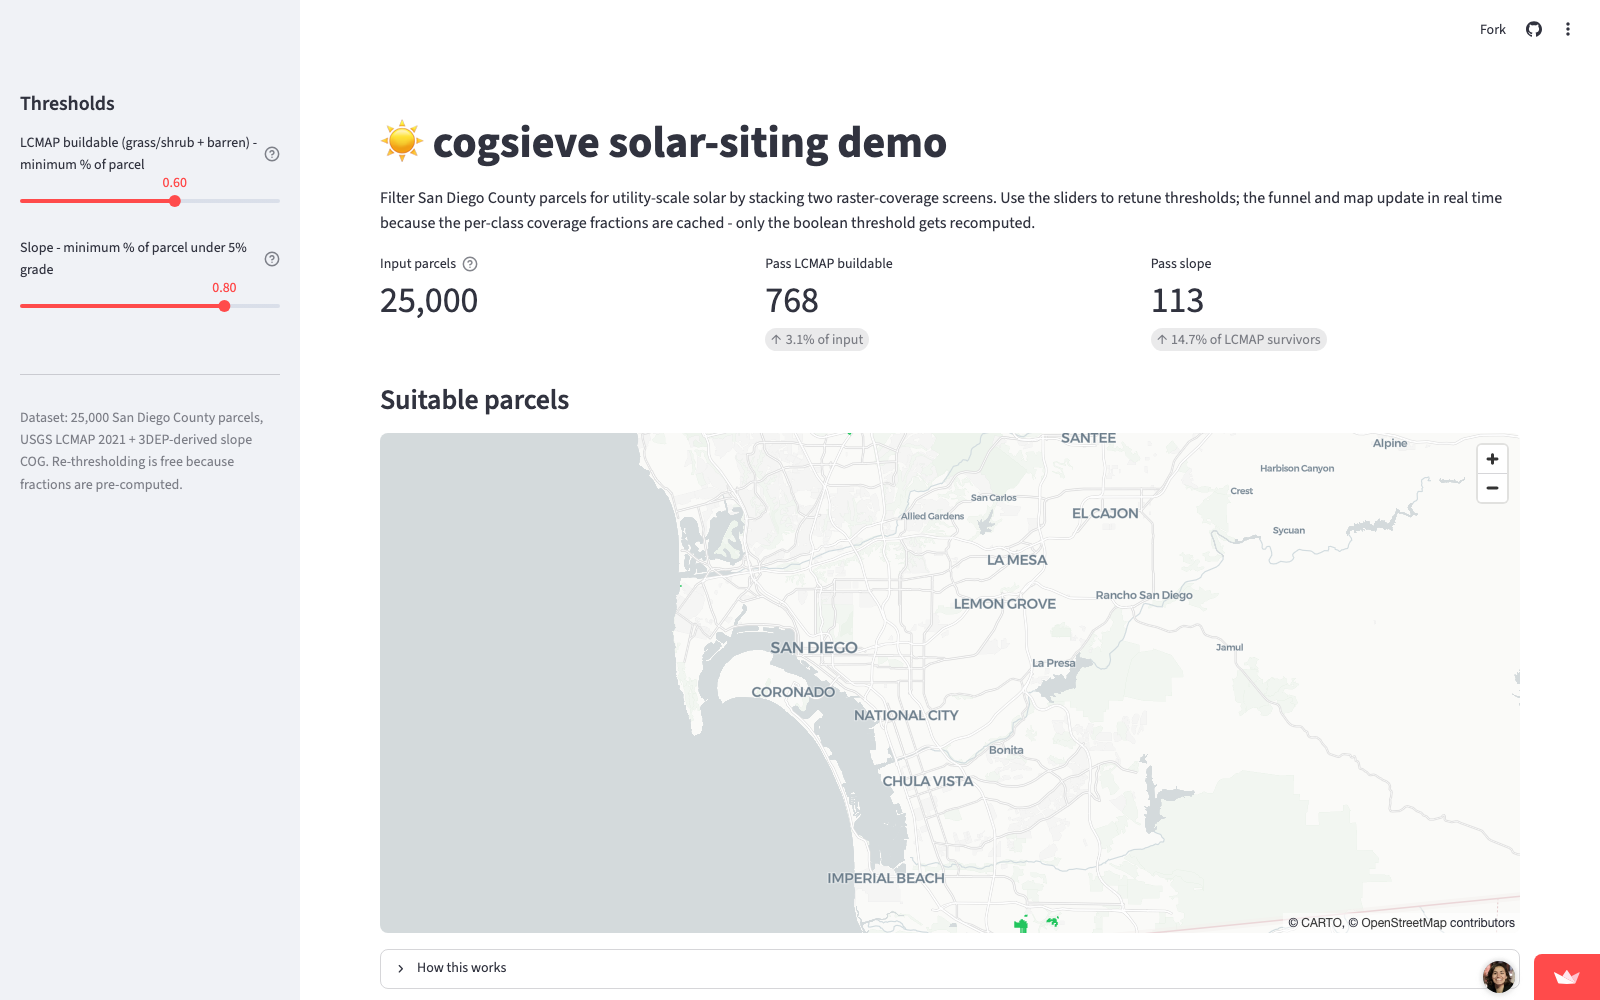
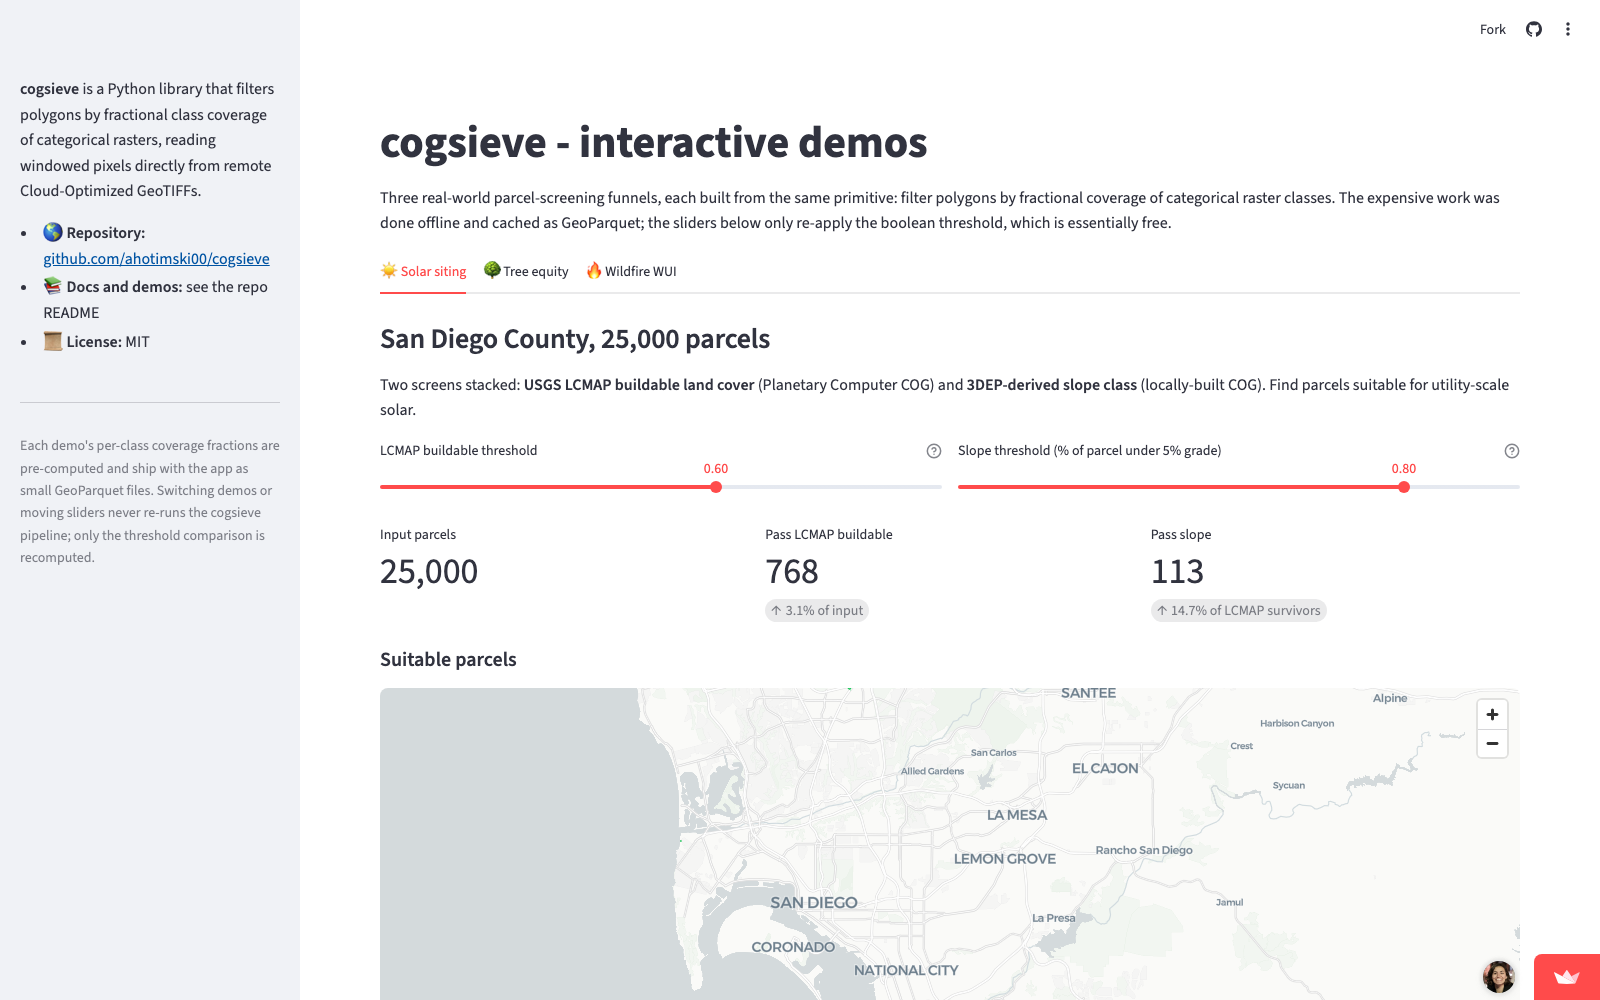
Tools/cogsieve: update screenshot + description for multi-tab demo
The Streamlit app now hosts three tabs (solar siting, tree equity,
wildfire WUI), each with threshold sliders that re-filter cached
coverage fractions. Updated the live-demo link description and
re-captured the screenshot to reflect the new UI.

diff --git a/_pages/tools.md b/_pages/tools.md
@@ -16,7 +16,7 @@ Open-source libraries and interactive demos that stand on their own outside the 
 
 **A Python library that filters polygons by fractional class coverage of categorical rasters, reading windowed pixels directly from remote Cloud-Optimized GeoTIFFs instead of downloading scenes.** Three concrete use cases (solar siting, tree equity, wildfire risk) demonstrated on public data.
 
-**Live demo:** [cogsieve-vir5swvkd2a5fypnpyqlnn.streamlit.app](https://cogsieve-vir5swvkd2a5fypnpyqlnn.streamlit.app/) - move two sliders, watch 25,000 San Diego County parcels re-filter in milliseconds.
+**Live demo:** [cogsieve-vir5swvkd2a5fypnpyqlnn.streamlit.app](https://cogsieve-vir5swvkd2a5fypnpyqlnn.streamlit.app/) - three tabs (solar siting, tree equity, wildfire WUI), each with threshold sliders that re-filter cached coverage fractions in milliseconds.
 
 [![cogsieve interactive solar-siting demo, San Diego County: threshold sliders, funnel stats, suitable parcels on a map](/assets/img/cogsieve_streamlit.png)](https://cogsieve-vir5swvkd2a5fypnpyqlnn.streamlit.app/)
 
